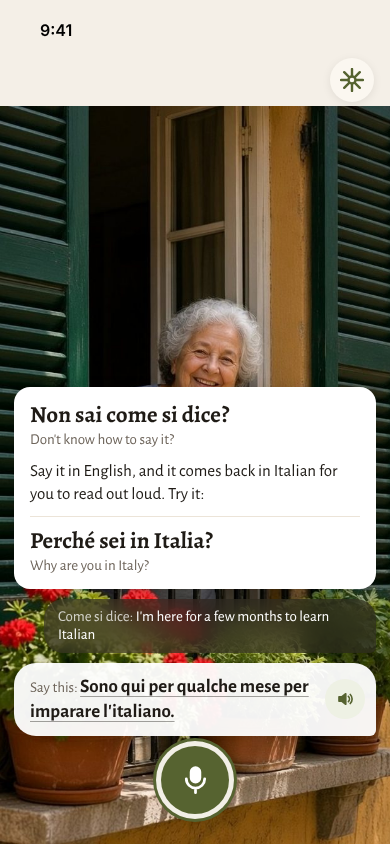
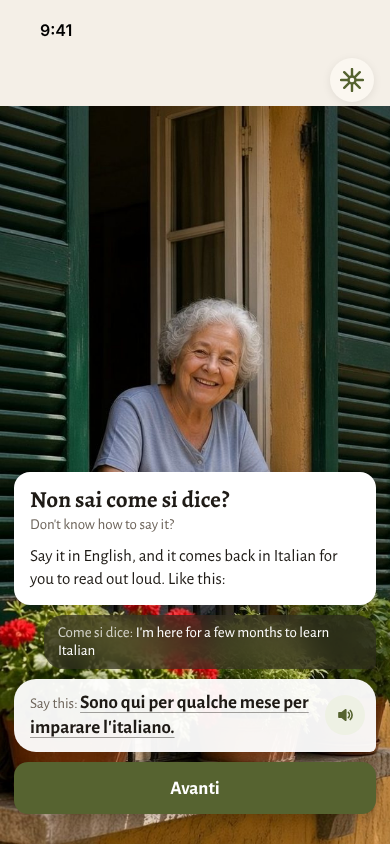
Orientation step 7: say it in English shown as an example, not tried (Josh)
Josh: "better without 'try it', that gets confusing." The card says
"Like this:" over the two bubbles, and Avanti replaces the mic. The
question Perche sei in Italia? is gone, so the tour no longer asks why
they're here.

Claude-Session: https://claude.ai/code/session_01HuSMtjsR1f1fbNVszYXEaS

Changed region(s): [[0.0308, 0.4313, 0.9846, 0.9858]]

diff --git a/docs/orientation-script.md b/docs/orientation-script.md
@@ -24,7 +24,7 @@
 | 4 | *Perfetto! Fuori è un viaggio in Italia.* | Perfect! Fuori is a trip to Italy. |
 | 5 | *Si comincia da Roma.* | You start in Rome. |
 | 6 | *Scegli un posto.* | Pick a place. |
-| 7 | *Non sai come si dice?* … *Perché sei in Italia?* | Don't know how to say it? … Why are you in Italy? |
+| 7 | *Non sai come si dice?* | Don't know how to say it? |
 | 8 | *Se non capisci, chiedi.* | If you don't understand, ask. |
 | 9 | *Ecco tutto, {name}. Andiamo!* | That's everything. Let's go! |
 
@@ -74,10 +74,10 @@ Each beat: what's on screen · what she says · what the learner does · what it
 
 ## 7 · Say it in English
 
-Kept (Josh, 2026-10-23: "H9 was good"). Her picture, the G2 bubbles.
-**She:** *Non sai come si dice?* "Don't know how to say it? Say it in English, and it comes back in Italian for you to read out loud. Try it:" *Perché sei in Italia?* (Why are you in Italy?)
-**Learner:** says it in English (the grey *Come si dice:* bubble), gets the "Say this:" line, reads it aloud; the mic has reopened by itself.
-**Sets:** what brings them here (for the characters' memory).
+Kept (Josh, 2026-10-23: "H9 was good"), shown as an example, not tried ("better without 'try it', that gets confusing"). Her picture, the G2 bubbles.
+**She:** *Non sai come si dice?* "Don't know how to say it? Say it in English, and it comes back in Italian for you to read out loud. Like this:"
+**Shown:** the grey bubble *Come si dice:* I'm here for a few months to learn Italian, and the "Say this:" bubble *Sono qui per qualche mese per imparare l'italiano.*
+**Learner:** **Avanti**.
 
 ## 8 · Getting help, and Learn
 
